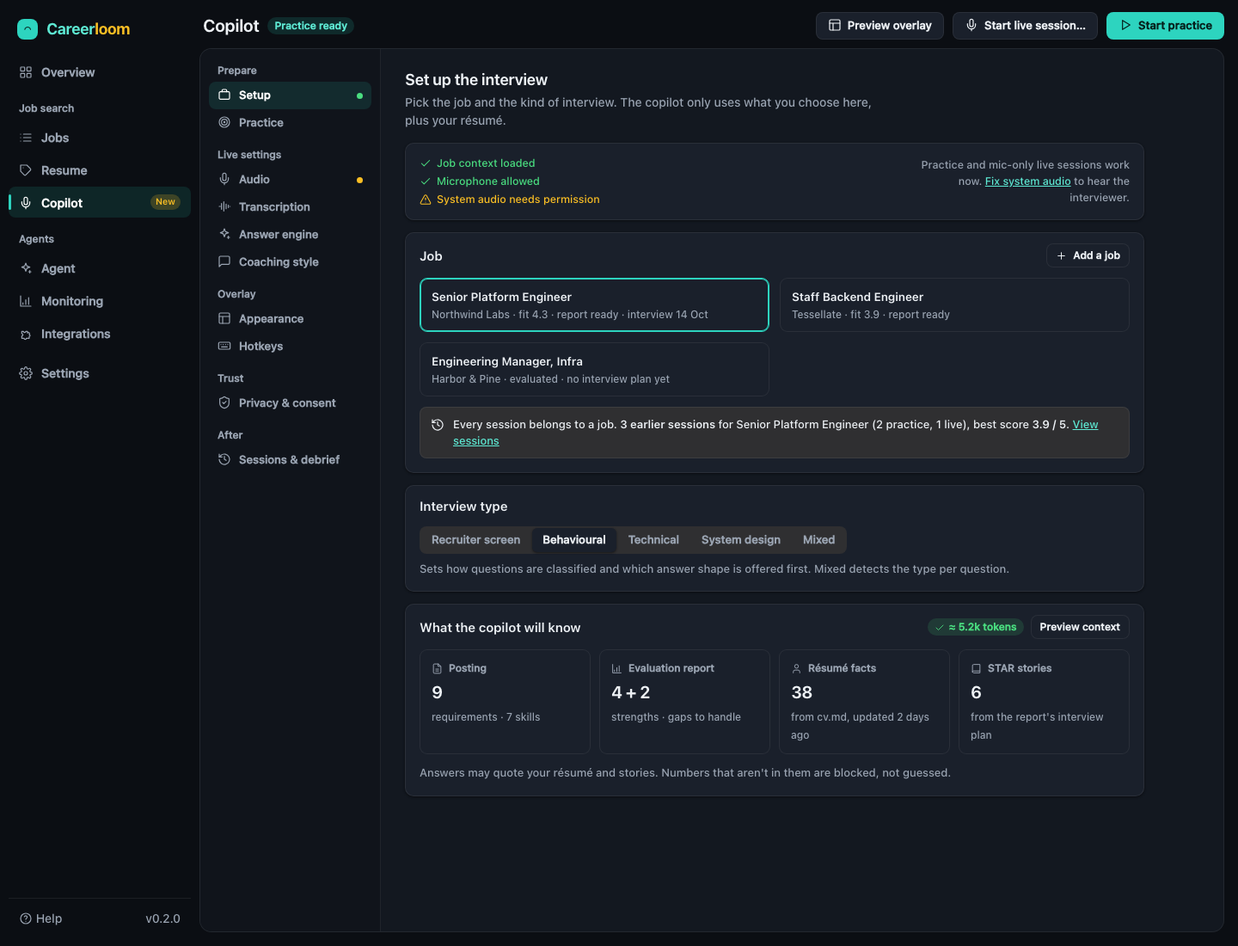
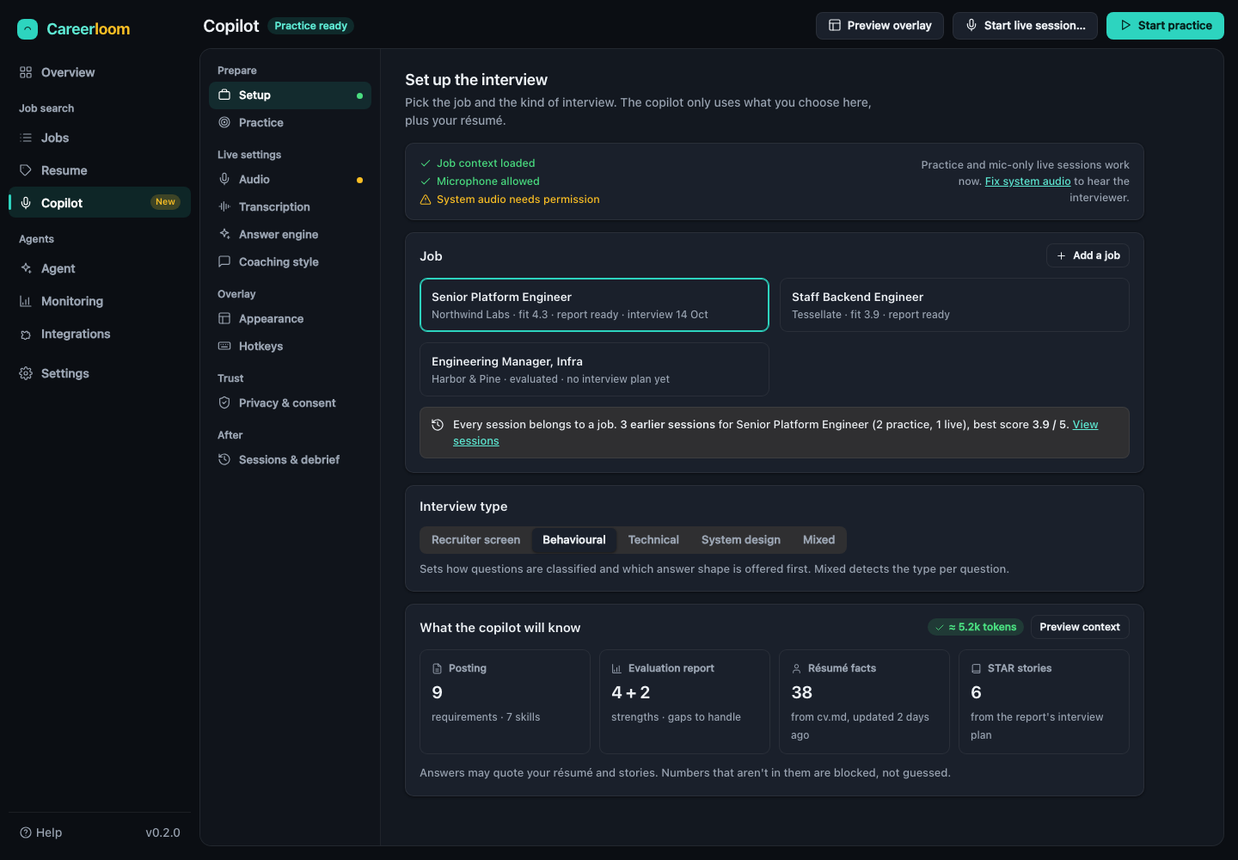
docs: copilot plan scoped to macOS first, Windows deferred

diff --git a/docs/plans/interview-copilot/prototype/config.html b/docs/plans/interview-copilot/prototype/config.html
@@ -50,8 +50,7 @@
 <!-- SETUP -->
 <section class="page" id="p-setup">
   <header><h2>Set up the interview</h2><p>Pick the job and the kind of interview. The copilot only uses what you choose here, plus your résumé.</p></header>
-  <div class="notice" id="winnote" style="display:none;margin-bottom:14px"><i data-i="info" data-s="16"></i><div><b>Windows:</b> live sessions aren't available yet. Practice works, and you type your answers. <button class="btn sm" disabled style="margin-left:8px">Start live session…</button></div></div>
-  <div class="ready">
+    <div class="ready">
     <div class="chk2"><span class="ok"><i data-i="check" data-s="14"></i>Job context loaded</span><span class="ok"><i data-i="check" data-s="14"></i>Microphone allowed</span><span class="wn"><i data-i="warn" data-s="14"></i>System audio needs permission</span></div>
     <span style="flex:1"></span>
     <div style="text-align:right;color:var(--mut);font-size:12.5px;max-width:260px">Practice and mic-only live sessions work now. <a href="#audio" style="color:var(--accent-text)">Fix system audio</a> to hear the interviewer.</div>
@@ -132,8 +131,7 @@
     <div class="row"><div class="lab"><b>Wait after the interviewer stops</b><span>Shorter is faster but may cut a question in half.</span></div><input class="rng" type="range" min="400" max="1400" value="800" aria-label="Wait after speech"><span class="val">800 ms</span></div>
     <div class="row"><div class="lab"><b>Words to recognise</b><span>Names and tools the engine often gets wrong.</span></div><div class="tags"><span class="badge">Kubernetes</span><span class="badge">Northwind</span><span class="badge">Terraform</span><button class="btn sm"><i data-i="plus" data-s="12"></i>Add</button></div></div>
   </div></div>
-  <div class="notice warn"><i data-i="warn" data-s="16"></i><div><b>Windows:</b> live sessions aren't available yet. Practice works.</div></div>
-</section>
+  </section>
 
 <!-- ENGINE -->
 <section class="page" id="p-engine">
@@ -341,7 +339,6 @@ setPm(false);
 pm.onclick = e => { e.stopImmediatePropagation(); if (pm.getAttribute('aria-checked') === 'true') setPm(false); else pmn.classList.add('on'); };
 document.getElementById('pmCancel').onclick = () => pmn.classList.remove('on');
 document.getElementById('pmOk').onclick = () => { pmn.classList.remove('on'); setPm(true); };
-if (q.get('os') === 'win') { document.getElementById('winnote').style.display = 'flex'; document.getElementById('openGate').classList.add('dis'); document.getElementById('openGate').disabled = true; }
 if (q.get('pm') === '1') setPm(true); if (q.get('notice') === '1') pmn.classList.add('on');
 document.getElementById('bench').onclick = () => { document.getElementById('benchres').style.display = 'flex'; };
 if (q.get('bench') === '1') document.getElementById('benchres').style.display = 'flex';

diff --git a/docs/plans/interview-copilot/plan.md b/docs/plans/interview-copilot/plan.md
@@ -1,14 +1,14 @@
 # Interview Copilot — Implementation Plan (Phase 3)
 
 Inputs: `research.md` (facts, sources), `design.md` + `prototype/` (screens). Defaults below are **provisional** (lead-approved at G1, user to confirm) and are isolated in §15 so they are cheap to change.
-Target: Careerloom v0.3.0 · **macOS (Apple Silicon) for Live; Windows = Practice only** · Electron ^43.7.0 (installed version unverified in this worktree).
+Target: Careerloom v0.3.0 · **macOS only for now (Apple Silicon first); Windows is deferred** · Electron ^43.7.0 (installed version unverified in this worktree).
 
 ## 1. Context and scope
 
 Add a **Copilot** section (config workspace, 10 pages) and an **overlay window** that listens (mic, later system audio), detects interviewer questions, and streams grounded suggestions built from the job posting, evaluation report, `cv.md` facts and STAR stories.
 
-**User decisions (2026-10-01):** LLM = **OpenRouter**; **answer-on-demand** default; transcript retention **3 months**, changeable in the app (acceptable to state in consent copy); **every session belongs to exactly one Job, a Job can have many sessions**; **Windows gets Practice only in M1**; STT = **the fastest accurate local engine, decided by a bake-off (spike S2)**, with **Moonshine Voice (streaming) as the expected default**, Whisper MLX and faster-whisper (CUDA) as alternates behind the same adapter; **proper model-selection fields** for STT (engine/model/device) and for the answer model per tier.
-**MVP (M1):** Practice mode (macOS + Windows) + mic-only Live (macOS) + local STT adapter (Moonshine default) + OpenRouter streaming runner + job-linked sessions + consent gate + kill switch. **M2:** system audio (macOS, after spike gate); Windows Live candidate if the STT/loopback spikes pass. **M3:** screenshot → vision. **M4:** local LLM, extras.
+**User decisions (2026-10-01):** LLM = **OpenRouter**; **answer-on-demand** default; transcript retention **3 months**, changeable in the app (acceptable to state in consent copy); **every session belongs to exactly one Job, a Job can have many sessions**; **macOS first; Windows is deferred to a later phase (user, latest)**; STT = **the fastest accurate local engine, decided by a bake-off (spike S2)**, with **Moonshine Voice (streaming) as the expected default**, Whisper MLX and faster-whisper (CUDA) as alternates behind the same adapter; **proper model-selection fields** for STT (engine/model/device) and for the answer model per tier.
+**MVP (M1, macOS only):** Practice mode + mic-only Live + local STT adapter (Moonshine default) + OpenRouter streaming runner + job-linked sessions + consent gate + kill switch. **M2:** system audio (macOS, after spike gate). **M3:** screenshot → vision. **M4:** local LLM, extras. **Later (unscheduled): Windows** (live capture, STT engine/CUDA check, overlay QA, installer).
 **Included as opt-in, OFF by default — Privacy mode** (user decision): hide overlay from screen sharing (`setContentProtection`), no Dock icon while listening, neutral window title, click-through, quick-hide hotkey, configurable recording indicator. Guarded by a one-time plain notice (some interviewers/employers prohibit AI help; hide-from-capture unreliable on macOS 15+ ScreenCaptureKit). Per-session consent is **not** part of it.
 **Not included:** process-name masquerading, fake system-app/browser identities, disguised installers/icons, near-invisible opacity or cursor tricks, or anything aimed at defeating proctoring/anti-cheat software. Also out: the unauthenticated LAN companion, diarisation, auto-typing into other apps, raw-audio retention (design.md §7).
 **Reuse:** Open-Cluely is the user's own project, so code/prompts are **ported** (TS/React adaptation, keys via `safeStorage`). Per-package port map in §11.
@@ -50,7 +50,7 @@ New pattern: long-lived child process (only for M4 on-device STT helper); SSE st
 
 ### 3.1 Capture (WP3)
 - Mic: `getUserMedia({audio:{echoCancellation:true,noiseSuppression:true}})` → `AudioContext({sampleRate:16000})` → AudioWorklet posts Int16 frames (80–100 ms) to main (`copilotAudioChunk`, transferable). Worklet file under `renderer/copilot/worklet.js`, allowed by `script-src 'self'`.
-- **Platform rule:** Live is gated by a capability table (`copilot/capabilities.ts`: `{ live: boolean, liveSystemAudio: boolean, practiceVoice: boolean }` per platform/arch), **not** by scattered `process.platform` checks. M1 values: macOS arm64 `live:true`; Windows `live:false` (Practice only, user decision); Intel macOS `live` depends on the chosen engine. When `live:false`, `copilotStart(mode:'live')` is refused in main and the UI disables "Start live session" with an explanation. Because Moonshine also runs on Windows (docs), **voice practice on Windows (mic + local STT) is a cheap option**, recommended but pending your answer (open question 7); flipping Windows Live later is a one-line capability change once loopback capture (spike S1 on Windows) and STT pass.
+- **Platform rule:** macOS only for now. The Copilot sidebar item and every `copilot*` handler are available only when `capabilities.ts` says so (`process.platform === 'darwin'` and, for Live, Apple Silicon unless the bake-off engine also passes on Intel); elsewhere main refuses the calls and the renderer hides the section (no half-working Windows UI). Keep platform-specific code (dock, ScreenCaptureKit/CoreAudio tap, entitlements, permissions) in clearly named macOS modules so a Windows phase can add siblings instead of untangling branches. Windows work (later): loopback capture spike, STT engine check (Moonshine runs on Windows per its docs; CUDA unverified), overlay z-order/DPI QA, NSIS packaging.
 - System audio (M2, macOS): main sets `session.setDisplayMediaRequestHandler` with `audio:'loopback'`; renderer calls `getDisplayMedia`. **Spike gate G-B** decides between: (a) macOS ≥14.2 CoreAudio tap (`NSAudioCaptureUsageDescription`), (b) `useSystemPicker:true` path (issue #52738 workaround), (c) virtual device (BlackHole) via `getUserMedia`, (d) mic-only.
 - Health: per-source "samples received in last 3 s" detector drives the **permission-missing** overlay state (silent ended track raises no error).
 - Channel = speaker (`interviewer` = system, `you` = mic). No diarisation.
@@ -210,7 +210,7 @@ export type CopilotConfig = {
   practice: { followups: boolean; readAloud: boolean; answerMinutes: number }
 }
 ```
-Defaults: tier `fast`, escalate on, provider `openrouter` (`dataCollection:'deny'`), `autoAnswer:false` (answer on demand), shape `cues+star`, `retentionDays:90`, redact on, opacity 0.94, anchor `tr`, width 440, hotkeys `⌃⌥A/F/C/S/M/E/L/H`, quick hide `⌃⌥⇧H`, panic `⌃⌥⇧X` (Windows: Ctrl+Alt). Model ids are **not** hard-coded: resolved from a dated `recommended-models.json` (prices and ids change) and shown in the UI.
+Defaults: tier `fast`, escalate on, provider `openrouter` (`dataCollection:'deny'`), `autoAnswer:false` (answer on demand), shape `cues+star`, `retentionDays:90`, redact on, opacity 0.94, anchor `tr`, width 440, hotkeys `⌃⌥A/F/C/S/M/E/L/H`, quick hide `⌃⌥⇧H`, panic `⌃⌥⇧X`. Model ids are **not** hard-coded: resolved from a dated `recommended-models.json` (prices and ids change) and shown in the UI.
 
 ## 8. Renderer structure
 
@@ -286,7 +286,7 @@ Behaviour: states from design.md §4 driven by a **fake event generator** (no ba
 | `main-process/shared/safe-send.js` | reuse `broadcast`; port only the destroyed-window guard if missing | — |
 | `renderer/features/layout/window-adjustments.js`, `features/settings/shortcut-manager.js` | overlay resize grip, `renderer/components/copilot/HotkeyRow.tsx` | React/TS; accelerator recorder UX |
 | `windows/assistant/styles.css`, `renderer.html` | reference only | new overlay follows `design.md` and Careerloom tokens |
-Accept: all 8 states + strip/panel + light/dark match `prototype/shots` within review; overlay never takes focus (manual macOS + Windows check); panic stops fake session in < 200 ms; vitest for state reducer, hotkey registration failure handling, anchor math.
+Accept: all 8 states + strip/panel + light/dark match `prototype/shots` within review; overlay never takes focus (manual macOS check; Windows later); panic stops fake session in < 200 ms; vitest for state reducer, hotkey registration failure handling, anchor math.
 **Privacy mode acceptance (vitest with mocked electron + manual):**
 1. Defaults: Privacy mode off ⇒ `setContentProtection` never called with `true`, Dock icon untouched, normal title, indicator = chip.
 2. Enabling without a notice ack for `CURRENT_NOTICE` ⇒ flags not applied (main-side check); with ack ⇒ applied to every overlay window, including windows created later.
@@ -328,7 +328,7 @@ Files: `renderer/overlay/capture/**` (worklet, mic, system), `electron/copilot/s
 | `renderer/features/transcription/transcription-manager.js` | `renderer/overlay/useCopilotEvents.ts` (partial/final transcript state) | React hook |
 macOS system audio has no source to port (Open-Cluely relies on Windows loopback): new work behind S1.
 
-Steps: (1) mic → 16 kHz PCM → fake STT replay parity test; (2) sidecar + install flow for **Moonshine first**, then Whisper MLX and faster-whisper behind the same adapter; **spike S2 bake-off (time-boxed 2 days; Apple Silicon 16 GB Mac, plus an NVIDIA Windows/Linux box if available):** run fixture audio (clean, noisy, Indian-accented English, interviewer + candidate) through Moonshine tiny/small/medium streaming, Whisper MLX small/turbo-class, faster-whisper on CUDA; record p50/p95 final-after-silence latency, real-time factor, RAM/CPU with a call app running, WER; try `ort_providers="CUDA"` for Moonshine; confirm the Moonshine LICENSE file; output a table + the chosen default; restart/replay handling; (3) **spike S1 (time-boxed 1 day)** on a signed or ad-hoc-signed build on macOS: loopback vs system-picker vs BlackHole, record which work, silent-track detector, TCC prompt behaviour across updates; (4) Windows: assert Live is refused by `capabilities.ts` and Practice works; if the STT bake-off ran on Windows, record whether mic voice practice works (input to open question 7).
+Steps: (1) mic → 16 kHz PCM → fake STT replay parity test; (2) sidecar + install flow for **Moonshine first**, then Whisper MLX and faster-whisper behind the same adapter; **spike S2 bake-off (time-boxed 2 days; Apple Silicon 16 GB Mac; CUDA check deferred with Windows):** run fixture audio (clean, noisy, Indian-accented English, interviewer + candidate) through Moonshine tiny/small/medium streaming and Whisper MLX small/turbo-class (faster-whisper/CUDA only in the Windows phase); record p50/p95 final-after-silence latency, real-time factor, RAM/CPU with a call app running, WER; try `ort_providers="CoreML"` vs CPU for Moonshine; confirm the Moonshine LICENSE file; output a table + the chosen default; restart/replay handling; (3) **spike S1 (time-boxed 1 day)** on a signed or ad-hoc-signed build on macOS: loopback vs system-picker vs BlackHole, record which work, silent-track detector, TCC prompt behaviour across updates; (4) non-macOS: assert `capabilities.ts` hides the Copilot section and refuses the handlers; existing tests stay green.
 Accept: mic-only end-to-end in a dev build; `silent` health fires within 3 s of a dead track; adapter contract tests pass for fake + real (real behind `CL_LIVE_STT=1`, ≤ $0.50 cap); spike report committed.
 **Gate G-B:** go/no-go on system audio per platform, written from S1 evidence.
 
@@ -340,7 +340,7 @@ Accept: starting a session without `jobId` is rejected (test); two sessions for 
 **Gate G-D (legal/policy):** lead/user reviews consent text, **Privacy mode notice text**, employer-policy link text, default provider, retention defaults before Live is enabled in a release build.
 
 ### WP5 — Later milestones (separate dispatches, not started now)
-M3 screenshot→vision (`desktopCapturer`, image to vision model, FIFO cap + crash sweep, Screen Recording guidance). **Port:** `main-process/features/assistant/screenshot-manager.js` → `electron/copilot/screenshots.ts` (FIFO cap, cleanup on clear/quit, add crash-recovery sweep, temp dir), `services/ocr/service.js` → `electron/copilot/ocr.ts` (tesseract.js, fallback only); M4 local LLM (Ollama port), Windows Live via a new STT adapter (whisper.cpp or a cloud adapter), Windows voice practice, Apple SpeechAnalyzer as an alternative adapter; Windows hardening and installer tests; notarization.
+M3 screenshot→vision (`desktopCapturer`, image to vision model, FIFO cap + crash sweep, Screen Recording guidance). **Port:** `main-process/features/assistant/screenshot-manager.js` → `electron/copilot/screenshots.ts` (FIFO cap, cleanup on clear/quit, add crash-recovery sweep, temp dir), `services/ocr/service.js` → `electron/copilot/ocr.ts` (tesseract.js, fallback only); M4 local LLM (Ollama port), Apple SpeechAnalyzer as an alternative adapter, notarization. **Later (unscheduled): Windows** — loopback capture, STT engine/CUDA check, overlay QA, NSIS packaging, installer tests.
 
 ### Sequencing
 ```
@@ -356,7 +356,7 @@ Integration owner (lead's worktree) merges in order WP0 → WP2 → WP3 → WP1 
 - **Unit (vitest, existing setup):** config defaults/migration; consent validation; detector; SSE parser; prompt builder (golden prompt snapshot for a fixture job); `proof` substring invariant; redaction; retention sweep; hotkey conflict handling; anchor math; overlay state reducer.
 - **Fixtures:** `electron/copilot/fixtures/{interview-behavioural,interview-design}.jsonl` (timed STT events, original synthetic dialogue) + optional synthetic `.wav` via local TTS; fake STT replays at 1× and 4×; fake provider streams canned SSE with configurable TTFT.
 - **Latency harness:** `node scripts/copilot-latency.mjs --provider openrouter --runs 20 --max-usd 2` (plus `--stt <engine>:<model>:<device>` for decode latency on recorded fixtures; same code as the in-app Benchmark button) → p50/p95 TTFT, total, tokens, cost; output JSON checked into `docs/plans/interview-copilot/measurements/` per run.
-- **Overlay QA (manual, cloned profile):** `--user-data-dir` copy + career-ops copy (repo rule); checklist: no focus steal over a real call app, above full-screen app, second monitor, click-through + hover, panic, Spaces switch, sleep/wake, dark/light, reduced motion, 200 % text. Windows: DPI scaling, taskbar z-order, exclusive full-screen caveat.
+- **Overlay QA (manual, cloned profile):** `--user-data-dir` copy + career-ops copy (repo rule); checklist: no focus steal over a real call app, above full-screen app, second monitor, click-through + hover, panic, Spaces switch, sleep/wake, dark/light, reduced motion, 200 % text. (Windows QA — DPI scaling, taskbar z-order, exclusive full-screen caveat — is deferred with the Windows phase.)
 - **Permission matrix (manual):** fresh mac profile → mic prompt; system audio denied/allowed; revoke mid-session; app update (ad-hoc signed identity changes may reset grants — record outcome).
 - **Live-provider smoke:** behind `CL_LIVE=1`, capped spend, never in CI.
 - **Screenshot regression:** render prototype vs app screens by eye at gates (no pixel-diff infra yet).
@@ -367,7 +367,7 @@ Integration owner (lead's worktree) merges in order WP0 → WP2 → WP3 → WP1 
 - `package.json` `build.mac`: add `extendInfo` `{ NSMicrophoneUsageDescription, NSAudioCaptureUsageDescription }` (plain-language strings, reviewed at G-D); add `entitlements`/`entitlementsInherit` → `build/entitlements.mac.plist` with `com.apple.security.device.audio-input` (effective when `hardenedRuntime` is turned on at signing time; today it is off and builds are ad-hoc signed — **TCC grants may not persist across ad-hoc-signed updates; verify in S1, signing/notarization is the real fix**). Screen Recording has no usage-string key to add (system prompt names the app; verify).
 - CSP: no widening of `connect-src`. Worklet served from `'self'`. If a blob worker is needed add `worker-src 'self' blob:` only.
 - Overlay window: same preload, `sandbox:true`, `contextIsolation:true`, `webSecurity` left on (explicitly not copying any reference-project flags).
-- Windows NSIS: no extra entries for loopback; test on x64 + arm64; `npx.cmd`/path issues already tracked.
+- Windows NSIS/installer: **deferred** with the Windows phase; nothing in M1 may break the existing Windows build (the Copilot section and handlers are absent there, typecheck and tests stay green on both).
 - Nothing ML in installers; M4 models install from onboarding-style flow.
 - Release: follow existing recipe (`CSC_IDENTITY_AUTO_DISCOVERY=false npx electron-builder --mac/--win`); tag only when the user asks.
 
@@ -379,7 +379,7 @@ Integration owner (lead's worktree) merges in order WP0 → WP2 → WP3 → WP1 
 | M1 (v0.3.0) | Practice + mic-only live + streaming runner + consent gate + kill switch (WP0–WP4) | G-B(mic ok), G-C, G-D, cloned-profile QA, user confirms defaults |
 | M2 | System audio (macOS per spike) | G-B = go; permission matrix passed |
 | M3 | Screenshot → vision | privacy review of screen capture |
-| M4 | Local LLM, Windows Live STT, notarization, extras (pace/filler coaching, extra providers) | hardware test on 16 GB Mac |
+| M4 | Local LLM, Apple SpeechAnalyzer option, notarization, extras (pace/filler coaching, extra providers) | hardware test on 16 GB Mac |
 
 Feature flag `copilot.enabled` (default on in dev, off in first public build) and a runtime **Live disabled** fallback if consent text version is missing.
 
@@ -390,7 +390,7 @@ Feature flag `copilot.enabled` (default on in dev, off in first public build) an
 | Responsible-use option | **B** + opt-in Privacy mode: practice first; live = per-session consent; no disguise features | §9, WP4 consent gate, design §7 |
 | Privacy mode (hide-from-capture, no Dock icon, neutral title, click-through, quick hide, indicator) | **Opt-in, OFF**; notice on first enable; indicator default = chip | `privacy-mode.ts`, Privacy page group |
 | MVP scope | Practice + mic-only + streaming API runner | §14 |
-| Platforms | **macOS Apple Silicon = Live + Practice; Windows = Practice only** (user, 2026-10-01) | WP3, §3.1, §12 |
+| Platforms | **macOS only for now; Windows later** (user, latest) | WP3, §3.1, §12 |
 | Budget | ≈ $0.30 per interview; per-session ceiling $1.00 | §10, `engine.ts` |
 | STT | **Local, fastest accurate engine by bake-off; Moonshine streaming expected** (user, 2026-10-01); Whisper MLX / faster-whisper alternates; CUDA unverified for Moonshine | WP3, spike S2 |
 | Session ↔ Job | **Every session belongs to exactly one Job; a Job has many sessions** (user, 2026-10-01) | `SessionSummary.jobId`, Sessions page grouped by job, Job page list |
@@ -431,11 +431,11 @@ Feature flag `copilot.enabled` (default on in dev, off in first public build) an
 2. **Legal/policy review:** who signs off the consent text and the "check the employer's rules" copy (gate G-D)? Any jurisdictions to call out beyond the generic all-party note?
 3. ~~STT provider~~, 4. ~~LLM provider~~, 5. ~~Auto-answer~~ — **resolved by the user (2026-10-01): local fastest-accurate STT (Moonshine expected; bake-off decides), OpenRouter, answer on demand.**
 6. **System audio:** acceptable to ship M1 mic-only and let the interviewer side wait for M2 (spike outcome)? Is BlackHole (user-installed) an acceptable fallback?
-7. ~~Windows~~ — **resolved: Windows is Practice only (M1).** Moonshine runs on Windows, so **recommendation: allow voice practice on Windows (mic + local STT CPU) and keep Live off**; is that OK, or typed answers only?
+7. ~~Windows~~ — **resolved (user, latest): take Windows later, focus on macOS first.** No Windows voice-practice or Live work in this plan until that phase is scheduled.
 8. ~~Retention~~ — **resolved: 3 months, editable.** Still open: may saved sessions feed the Resume/Job pages automatically, or only on explicit Apply (plan assumes explicit)? Holding an interviewer's words for 3 months: **accepted by the user (2026-10-01)**; the consent copy states it.
 9. **Apple signing/notarization** budget: ad-hoc builds may keep re-prompting for permissions.
 10. **Open-Cluely ownership:** you own it; adding a `LICENSE` is your call. Git history lists other contributors: confirm their contributions may be ported, or limit ports to files you wrote.
 11. Is `feat-job-page`'s `reportParse` contract final (Interview Plan STAR stories), and who owns changes to it?
-12. **STT bake-off (S2):** you suggested Moonshine with CUDA. CUDA is not documented for Moonshine's runtime and the dev Mac has no CUDA, so the plan benchmarks Moonshine on CPU/CoreML (and CUDA if an NVIDIA box is available) against Whisper MLX and faster-whisper. Do you have an NVIDIA machine for the CUDA check? Is an on-demand model download in onboarding acceptable?
+12. **STT bake-off (S2):** you suggested Moonshine with CUDA. CUDA is not documented for Moonshine's runtime and this Mac has no CUDA, so with Windows deferred the bake-off runs on the Mac only (Moonshine CPU/CoreML vs Whisper MLX); the CUDA check moves to the Windows phase. Is an on-demand model download in onboarding acceptable?
 12b. **Language:** Moonshine lists no Hindi STT. Is English (incl. accented English) enough for v0.3.0?
 13. **OpenRouter defaults:** `data_collection:'deny'` narrows the available models/providers; accept that, or allow per-model opt-in? Which default models per tier (resolved from `recommended-models.json`, dated)?

diff --git a/docs/plans/interview-copilot/design.md b/docs/plans/interview-copilot/design.md
@@ -37,7 +37,7 @@ Header actions (always visible): **Preview overlay**, **Start live session…** 
 | Setup | Readiness strip (context / mic / system audio); job picker; interview type; "what the copilot will know" (posting, report, résumé facts, STAR stories, token estimate) | `job-view` (posting, `reportParse` interview plan), `readCv`, `currentProfile` |
 | Practice | Mock questions from the report (+ custom), follow-ups, read aloud, timer | report interview plan |
 | Audio | Mic device + level; system audio toggle, permission status + fix steps, virtual-device source, headphone tip | `systemPreferences`, capture probe |
-| Transcription | **Whisper on MLX (on this Mac)**: install status/size, model, language, end-of-speech wait, vocabulary, "audio never leaves this Mac" sentence; Windows: Practice only note | `whisper-mlx` sidecar + install flow |
+| Transcription | **Whisper on MLX (on this Mac)**: install status/size, model, language, end-of-speech wait, vocabulary, "audio never leaves this Mac" sentence | `whisper-mlx` sidecar + install flow |
 | Answer engine | Fast/Balanced/Deep with cost per interview, **OpenRouter** key + model per tier + data-collection setting, **answer on demand (auto-answer off)**, escalate for design/coding, fact check, vision vs OCR | streaming runner, `factCheck` |
 | Coaching style | Cues / Cues+STAR / Full script, length, tone, one-line persona, quote résumé, never invent numbers; live preview | prompt builder |
 | Appearance | Layout, 3×3 position, width, text size, opacity (≥60 %), theme, click-through, above full-screen, reduced motion; live preview | overlay window manager |
@@ -121,5 +121,7 @@ The one-time notice says: some interviewers and employers prohibit AI assistance
 
 ## 9. Updates from user decisions (2026-10-01, rounds 1 and 2)
 
-OpenRouter (LLM), answer-on-demand default, retention 3 months editable (accepted for consent copy), **every session belongs to one Job (a Job has many sessions)**, Windows = Practice only in M1, STT = local fastest accurate engine chosen by bake-off (Moonshine streaming expected), proper model-selection fields.
+OpenRouter (LLM), answer-on-demand default, retention 3 months editable (accepted for consent copy), **every session belongs to one Job (a Job has many sessions)**, macOS only for now (Windows deferred), STT = local fastest accurate engine chosen by bake-off (Moonshine streaming expected), proper model-selection fields.
 Prototype reflects: Transcription page with **Engine / Model / Compute fields and a Benchmark button** (model rows show size, expected latency, Recommended); Answer engine page with **per-tier model pickers** (searchable list, price, context, data-policy badge, Test model); Setup requires a Job (no "no job" option) and lists earlier sessions for the selected Job; Sessions page grouped by Job with per-Job trend; Privacy retention control; consent gate wording; Windows note. Screenshots re-rendered: `config-setup-dark/light`, `config-transcription-dark`, `config-engine-dark`, `config-sessions-dark`, `config-privacy-*`, `config-gate-dark`, `config-setup-windows-dark`.
+
+**Latest:** Windows is deferred; macOS first. The prototype no longer shows Windows notices.

diff --git a/.claude/memory/session_20261001_interview-copilot-plan.md b/.claude/memory/session_20261001_interview-copilot-plan.md
@@ -33,5 +33,5 @@ type: project
 **State:** `done` (plan delivered; nothing implemented)
 
 **Next steps:**
-- User confirms open questions in plan.md §18; then dispatch WP0 (contract + shell) and run gate G-A.
+- Windows is deferred (macOS first). User confirms open questions in plan.md §18; then dispatch WP0 (contract + shell) and run gate G-A.
 - Spike S1 (macOS system audio on Electron 43) before promising M2; pick STT provider at gate G-C from the latency harness.
